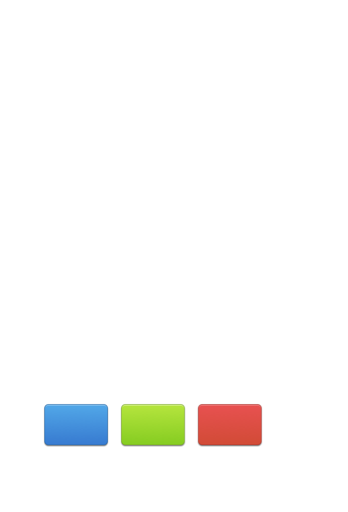
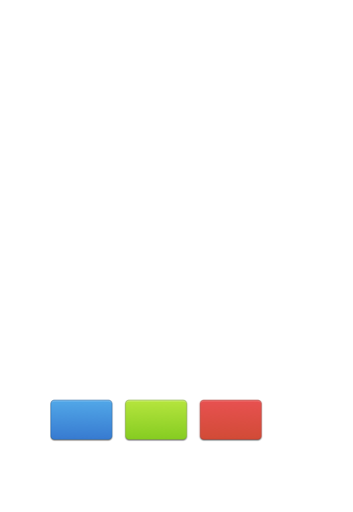
Adjust button text baseline.

Changed region(s): [[0.1149, 0.7812, 0.7759, 0.875]]

diff --git a/Cryptomeria/CMTestViewController.m b/Cryptomeria/CMTestViewController.m
@@ -9,6 +9,7 @@
 #import "CMTestViewController.h"
 #import "CMChartData.h"
 #import "NSMutableArray+Shuffling.h"
+#import "UIButton+AttributedString.h"
 
 #define RGBA(r, g, b, a) [UIColor colorWithRed:(r)/255.0 green:(g)/255.0 blue:(b)/255.0 alpha:a]
 #define NORMAL_SHADOW_COLOR RGBA(32, 85, 154, 1)
@@ -34,6 +35,10 @@
 @property NSInteger correctCount;
 @property NSInteger totalCount;
 @property BOOL inGuess;
+
+@property NSMutableParagraphStyle *noSpacingParagraphStyle;
+
+#define NO_SPACING(s) [[NSAttributedString alloc] initWithString:s attributes:@{NSParagraphStyleAttributeName:self.noSpacingParagraphStyle}]
 
 - (void)updateRangeLabel:(NSInteger)range;
 - (void)generateSequence;
@@ -61,6 +66,9 @@ typedef enum {
     [super viewDidLoad];
 	
     self.defaults = [NSUserDefaults standardUserDefaults];
+    
+    self.noSpacingParagraphStyle = [[NSMutableParagraphStyle alloc] init];
+    [self.noSpacingParagraphStyle setLineSpacing:0];
     
     NSInteger kanaRange = [self.defaults integerForKey:@"KanaRange"];
     [self.rangeStepper setValue:(double)kanaRange];
@@ -148,15 +156,11 @@ typedef enum {
     else if (thisHork == Katakana) {
         self.rightText = flattenedKatakana[thisID];
     }
-    [self.optionButtons[rightOption] setTitle:self.rightText forState:UIControlStateNormal];
+    [self.optionButtons[rightOption] setAttributedTitle:NO_SPACING(self.rightText) forState:UIControlStateNormal];
     self.rightButton = self.optionButtons[rightOption];
     NSMutableArray *usedID = [[NSMutableArray alloc] initWithObjects:@(thisID), nil];
-
+    
     for (NSInteger i = 0; i <= 3; ++i) {
-        // refresh buttons
-        [((UIButton *)self.optionButtons[i]) setBackgroundImage:[UIImage imageNamed:@"option-normal"] forState:UIControlStateNormal];
-        [((UIButton *)self.optionButtons[i]) setTitleShadowColor:NORMAL_SHADOW_COLOR forState:UIControlStateNormal];
-        
         if (i == rightOption) {
             continue;
         }
@@ -166,15 +170,23 @@ typedef enum {
         } while ([usedID containsObject:@(optionID)]);
         [usedID addObject:@(optionID)];
         
+        NSString *thisText;
         if (direction == KanaRomaji) {
-            [self.optionButtons[i] setTitle:flattenedRomaji[optionID] forState:UIControlStateNormal];
+            thisText = flattenedRomaji[optionID];
         }
         else if (thisHork == Hiragana) {
-            [self.optionButtons[i] setTitle:flattenedHiragana[optionID] forState:UIControlStateNormal];
+            thisText = flattenedHiragana[optionID];
         }
         else if (thisHork == Katakana) {
-            [self.optionButtons[i] setTitle:flattenedKatakana[optionID] forState:UIControlStateNormal];
+            thisText = flattenedKatakana[optionID];
         }
+        [self.optionButtons[i] setAttributedTitle:NO_SPACING(thisText) forState:UIControlStateNormal];
+    }
+
+    // refresh buttons
+    for (UIButton *button in self.optionButtons) {
+        [button setBackgroundImage:[UIImage imageNamed:@"option-normal"] forState:UIControlStateNormal];
+        [button setAttributedShadowWithColor:NORMAL_SHADOW_COLOR forState:UIControlStateNormal];
     }
 }
 
@@ -231,7 +243,7 @@ typedef enum {
         self.totalCount += 1;
     }
     
-    if (sender.currentTitle == self.rightText) {
+    if ([sender.currentAttributedTitle.string isEqualToString:self.rightText]) {
         if (self.inGuess) {
             self.correctCount += 1;
         }
@@ -241,10 +253,10 @@ typedef enum {
     else {
         self.inGuess = NO;
         [sender setBackgroundImage:[UIImage imageNamed:@"option-wrong"] forState:UIControlStateNormal];
-        [sender setTitleShadowColor:WRONG_SHADOW_COLOR forState:UIControlStateNormal];
+        [sender setAttributedShadowWithColor:WRONG_SHADOW_COLOR forState:UIControlStateNormal];
         
         [self.rightButton setBackgroundImage:[UIImage imageNamed:@"option-right"] forState:UIControlStateNormal];
-        [self.rightButton setTitleShadowColor:RIGHT_SHADOW_COLOR forState:UIControlStateNormal];
+        [self.rightButton setAttributedShadowWithColor:RIGHT_SHADOW_COLOR forState:UIControlStateNormal];
     }
     
     NSString *correctText = [[NSString alloc] initWithFormat:@"%d", self.correctCount];

diff --git a/Cryptomeria/UIButton+AttributedString.m b/Cryptomeria/UIButton+AttributedString.m
@@ -1,0 +1,25 @@
+//
+//  UIButton+AttributedString.m
+//  Cryptomeria
+//
+//  Created by Xhacker on 2013-05-11.
+//  Copyright (c) 2013 Xhacker. All rights reserved.
+//
+
+#import "UIButton+AttributedString.h"
+
+@implementation UIButton (AttributedString)
+
+- (void)setAttributedShadowWithColor:(UIColor *)color forState:(UIControlState)state
+{
+    NSShadow *textShadow = [[NSShadow alloc] init];
+    textShadow.shadowColor = color;
+    textShadow.shadowBlurRadius = 0.0;
+    textShadow.shadowOffset = CGSizeMake(0, 1);
+    NSDictionary *attributes = @{NSShadowAttributeName:textShadow};
+    NSMutableAttributedString *attributedString = [self.currentAttributedTitle mutableCopy];
+    [attributedString setAttributes:attributes range:NSMakeRange(0, attributedString.length)];
+    [self setAttributedTitle:attributedString forState:state];
+}
+
+@end

diff --git a/Cryptomeria/UIButton+AttributedString.h b/Cryptomeria/UIButton+AttributedString.h
@@ -1,0 +1,15 @@
+//
+//  UIButton+AttributedString.h
+//  Cryptomeria
+//
+//  Created by Xhacker on 2013-05-11.
+//  Copyright (c) 2013 Xhacker. All rights reserved.
+//
+
+#import <UIKit/UIKit.h>
+
+@interface UIButton (AttributedString)
+
+- (void)setAttributedShadowWithColor:(UIColor *)color forState:(UIControlState)state;
+
+@end
